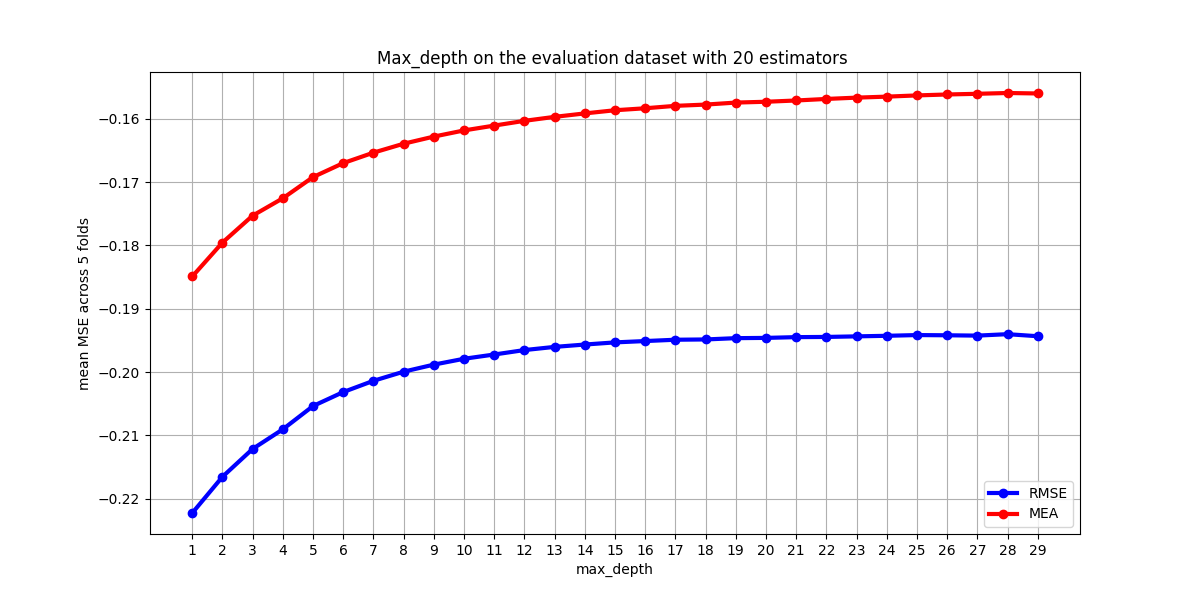
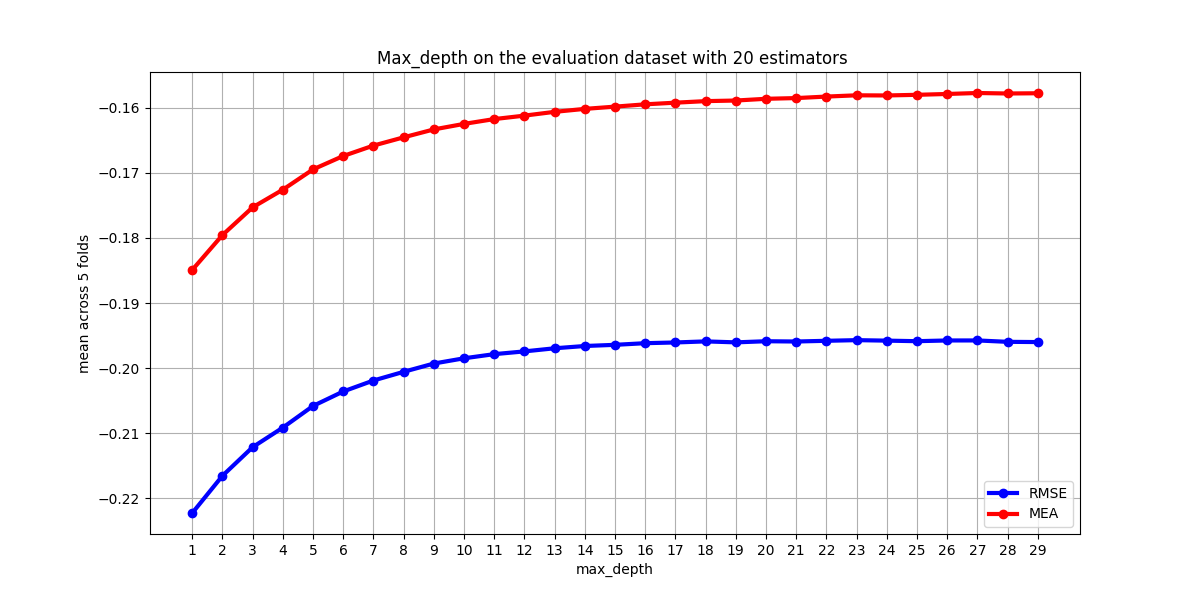
add new plots for linear regression and RDF

diff --git a/projekt/find_RDF_parameters.py b/projekt/find_RDF_parameters.py
@@ -1,8 +1,8 @@
 import pandas as pd 
 from sklearn.ensemble import RandomForestRegressor
 from preprocessing import build_model
-from evaluation import perform_grid_search_cv
-from dataset_statistics import plot_error_scores
+from evaluation import perform_grid_search_cv,evaluate_experiments
+from dataset_statistics import plot_results
 
 
 MAX_DEPTH_UPPER = 30
@@ -22,36 +22,33 @@ def get_rdf_for_experiments():
    return  RandomForestRegressor(random_state=0)
 
 
-def plot_results_rdf():
-    scores = evaluation_parameter["evaluation_metrics"]
-    columns_to_use = [dataset+"_"+metric for dataset in ["mean_train","mean_test"] for metric in scores]   
-    cv_results = pd.read_csv("evaluation_results/rdf_parameter_max_depth_30.csv")  
-    columns_to_use.append("param_model__max_depth")
-    MSE_results = cv_results[columns_to_use]
-    ten_estimators = MSE_results[::3]
-    twenty_estimators = MSE_results[1::3]
-    thirty_estimators = MSE_results[2::3]
-    train_results_ten =  ten_estimators[columns_to_use[0:2]]
-    test_results_ten  = ten_estimators[columns_to_use[2:4]]
-    train_results_twenty=  twenty_estimators[columns_to_use[0:2]]
-    test_results_twenty  = twenty_estimators[columns_to_use[2:4]]
-    train_results_thirty=  thirty_estimators[columns_to_use[0:2]]
-    test_results_thirty  = thirty_estimators[columns_to_use[2:4]]
-    plot_error_scores(train_results_ten,MSE_results["param_model__max_depth"][::3],
-    "Max_depth on the training dataset with 10 estimators ","max_depth","mean across 5 folds")
-    plot_error_scores(test_results_ten,MSE_results["param_model__max_depth"][::3],
-    "Max_depth on the evaluation dataset with 10 estimators ","max_depth","mean MSE across 5 folds")
-    plot_error_scores(train_results_twenty,MSE_results["param_model__max_depth"][1::3],
-    "Max_depth on the training dataset with 20 estimators","max_depth","mean MSE across 5 folds")
-    plot_error_scores(test_results_twenty,MSE_results["param_model__max_depth"][1::3],
-    "Max_depth on the evaluation dataset with 20 estimators ","max_depth","mean MSE across 5 folds")
-    plot_error_scores(train_results_thirty,MSE_results["param_model__max_depth"][2::3],
-    "Max_depth on the training dataset with 30 estimators","max_depth","mean MSE across 5 folds")
-    plot_error_scores(test_results_thirty,MSE_results["param_model__max_depth"][2::3],
-    "Max_depth on the evaluation dataset with 30 estimators","max_depth","mean MSE across 5 folds")
+def get_optimized_rdf():
+   return  RandomForestRegressor(random_state=0,n_estimators=30)
 
+def plot_results_rdf():
+    baselines = {"RMSE":-0.1969,"MEA":-0.1511}
+   
+def evaluate_default_rdf():
+    default_rdf = get_rdf_for_experiments()
+    default_rdf_30_estim = RandomForestRegressor(random_state=0)
+    piped_rdf = build_model(default_rdf)
+    piped_rdf_30_estim= build_model(default_rdf_30_estim)
+    RMSE_result_30_estim,MEA_result_30_estim = evaluate_experiments(piped_rdf_30_estim)
+    return RMSE_result_30_estim,MEA_result_30_estim
+
+
+def select_results(cv_results):
+    ten_estimators = cv_results[::3]
+    twenty_estimators = cv_results[1::3]
+    thirty_estimators = cv_results[2::3]
+    results_description = ["Ten Estimators","Twenty Estimators","30 Estimators"]
+    return [ten_estimators,twenty_estimators,thirty_estimators],results_description
 
 
 if __name__ =="__main__":
+    # might take a long time 
     #find_rdf_parameters()
-    plot_results_rdf()
+    RMSE_results_default,MEA_results_default = evaluate_default_rdf()
+    baseline = {"default RDF RMSE":RMSE_results_default,"default RDF MEA":MEA_results_default}
+    max_depth_range = list(range(1,MAX_DEPTH_UPPER))
+    plot_results("evaluation_results/rdf_parameter.csv",max_depth_range,select_results,baseline)

diff --git a/projekt/find_lasso_parameters.py b/projekt/find_lasso_parameters.py
@@ -3,9 +3,10 @@ from sklearn.linear_model import Lasso
 from sklearn.linear_model import LinearRegression
 from preprocessing import build_model
 from find_DT_parameters import evaluate_experiments,perform_grid_search_cv
+from dataset_statistics import plot_results
+
 
 alpha_range = list(range(1,40,2))
-alpha_range.append(0.1)
 file_name = "evaluation_results/lasso_evaluation.csv"
 
 evaluation_parameter = {
@@ -16,6 +17,10 @@ evaluation_parameter = {
 def get_lasso_model_for_experiments():
     return Lasso(random_state=0)
 
+
+def get_optimized_linear_model():
+    return LinearRegression()
+
 def find_lasso_parameters():
     """ evaluate a lasso model,e.g. a linear regression 
     with added regulaziation with optional intercept 
@@ -24,35 +29,34 @@ def find_lasso_parameters():
     perform_grid_search_cv(evaluation_parameter,piped_model,file_name)
    
 
-def find_OLS_parameter():
+def train_OLS():
     """ trains a ordinary Linear Regression(OLS) model
     with and without a bias.The OLS is used to train a model
     without regulazation since setting alpha to zero for the 
     lasso is discouraged in the documentation"""
     piped_liner = build_model(LinearRegression())
     piped_linear_unbiased = build_model(LinearRegression(fit_intercept=False))
-    _,test_RMSE_with_bias,_,test_MEA_with_bias = evaluate_experiments(piped_liner)
-    _,test_RMSE_unbiased,_,test_MEA_unbiased = evaluate_experiments(piped_linear_unbiased)
+    test_RMSE_with_bias,test_MEA_with_bias = evaluate_experiments(piped_liner)
+    test_RMSE_unbiased,test_MEA_unbiased = evaluate_experiments(piped_linear_unbiased)
+    print("TEST RMSE WITH BIAS",round(test_RMSE_with_bias,4))
+    print("test MEA  WITH BIAS",round(test_MEA_with_bias,4))
+    print("TEST RMSE WITHOUT BIAS",round(test_RMSE_unbiased,4))
+    print("test MEA  WITHOUT BIAS",round(test_MEA_unbiased,4))
     return test_RMSE_unbiased,test_RMSE_with_bias,test_MEA_with_bias,test_MEA_unbiased
     
 
-def plot_linear_regression_results():
-    lasso_results = pd.read_csv(file_name)
-    lasso_results_unbiased = lasso_results[0::2]
-    print(lasso_results_unbiased)
-    print("="*42)
-    lasso_results_with_bias = lasso_results[1::2]
-    columns_to_use = ["mean_test_neg_root_mean_squared_error","mean_test_neg_mean_absolute_error"]
-    RMSE_test_unbiased  = lasso_results_unbiased[columns_to_use]
-    RMSE_test_with_bias = lasso_results_with_bias[columns_to_use]
-    print(f"ubiased: {RMSE_test_unbiased} \n biased {RMSE_test_with_bias}")
-    test_RMSE_unbiased,test_RMSE_with_bias,test_MEA_with_bias,test_MEA_unbiased = find_OLS_parameter()
-    print(test_MEA_with_bias)
-    print("=")
-    print(test_MEA_unbiased)
-    print("RMSE")
-    print(test_RMSE_unbiased)
-    print(test_RMSE_with_bias)
-
-find_lasso_parameters()
-plot_linear_regression_results()
+def select_linear_regression_results(cv_results):
+    lasso_results_unbiased = cv_results[0::2]
+    lasso_results_with_bias = cv_results[1::2]
+    results_description = ["Model without Intercept","Model with Interept"]
+    parameter_description="alpha range"
+    return [lasso_results_unbiased,lasso_results_with_bias],results_description,parameter_description
+   
+    
+if __name__ =="__main__":
+    #find_lasso_parameters()
+    test_RMSE_unbiased,test_RMSE_with_bias,test_MEA_with_bias,test_MEA_unbiased = train_OLS()        
+    unbiased_baselines =  {"RMSE score for OLS":test_RMSE_unbiased,"MEA score for OLS":test_MEA_unbiased}
+    baselines_with_bias =  {"RMSE score for OLS":test_RMSE_with_bias,"MEA score for OLS":test_MEA_with_bias}
+    plot_results(file_name,alpha_range,select_linear_regression_results,[unbiased_baselines,baselines_with_bias])
+    
